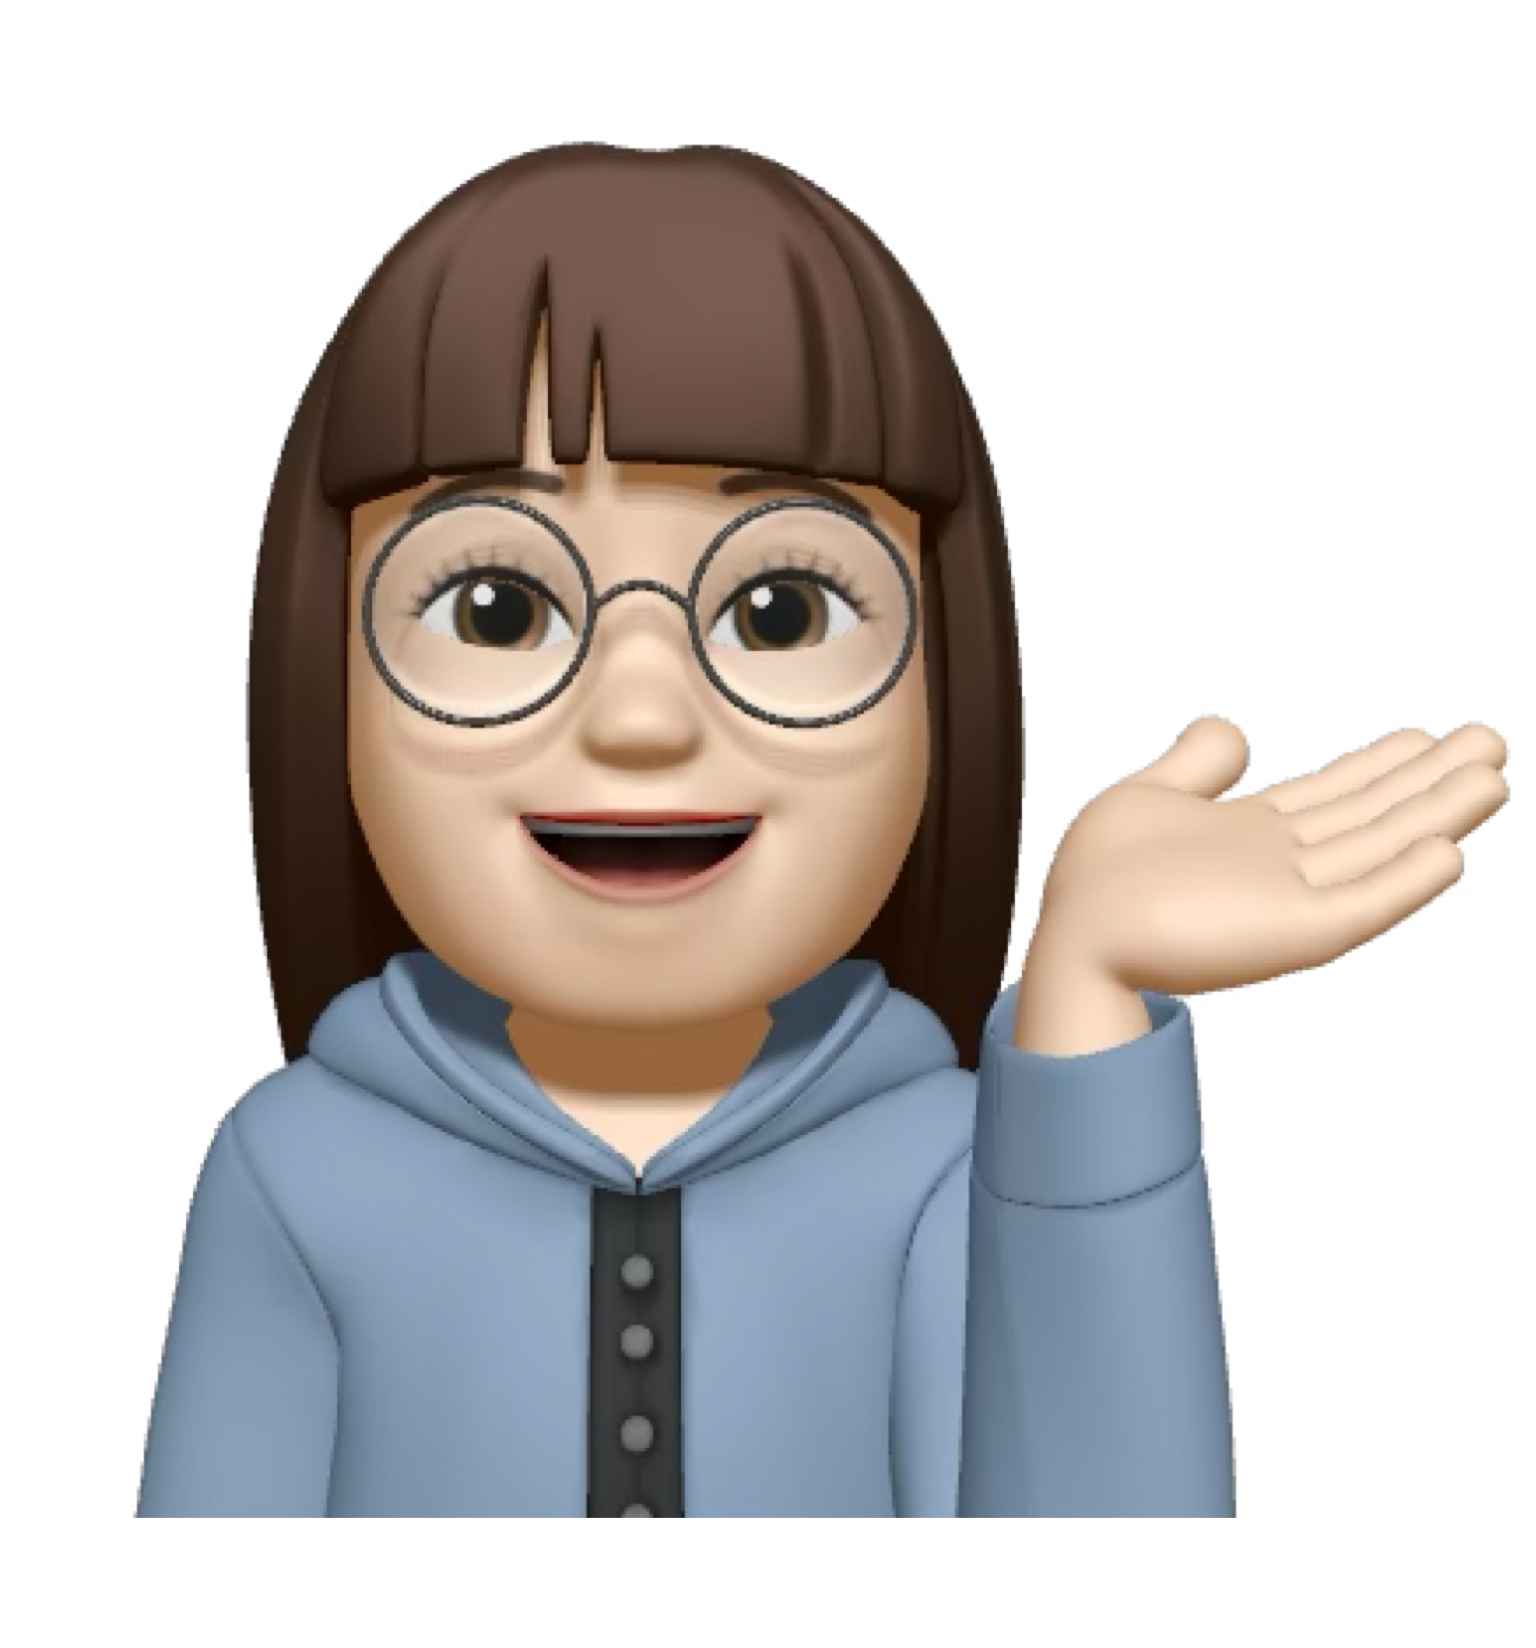
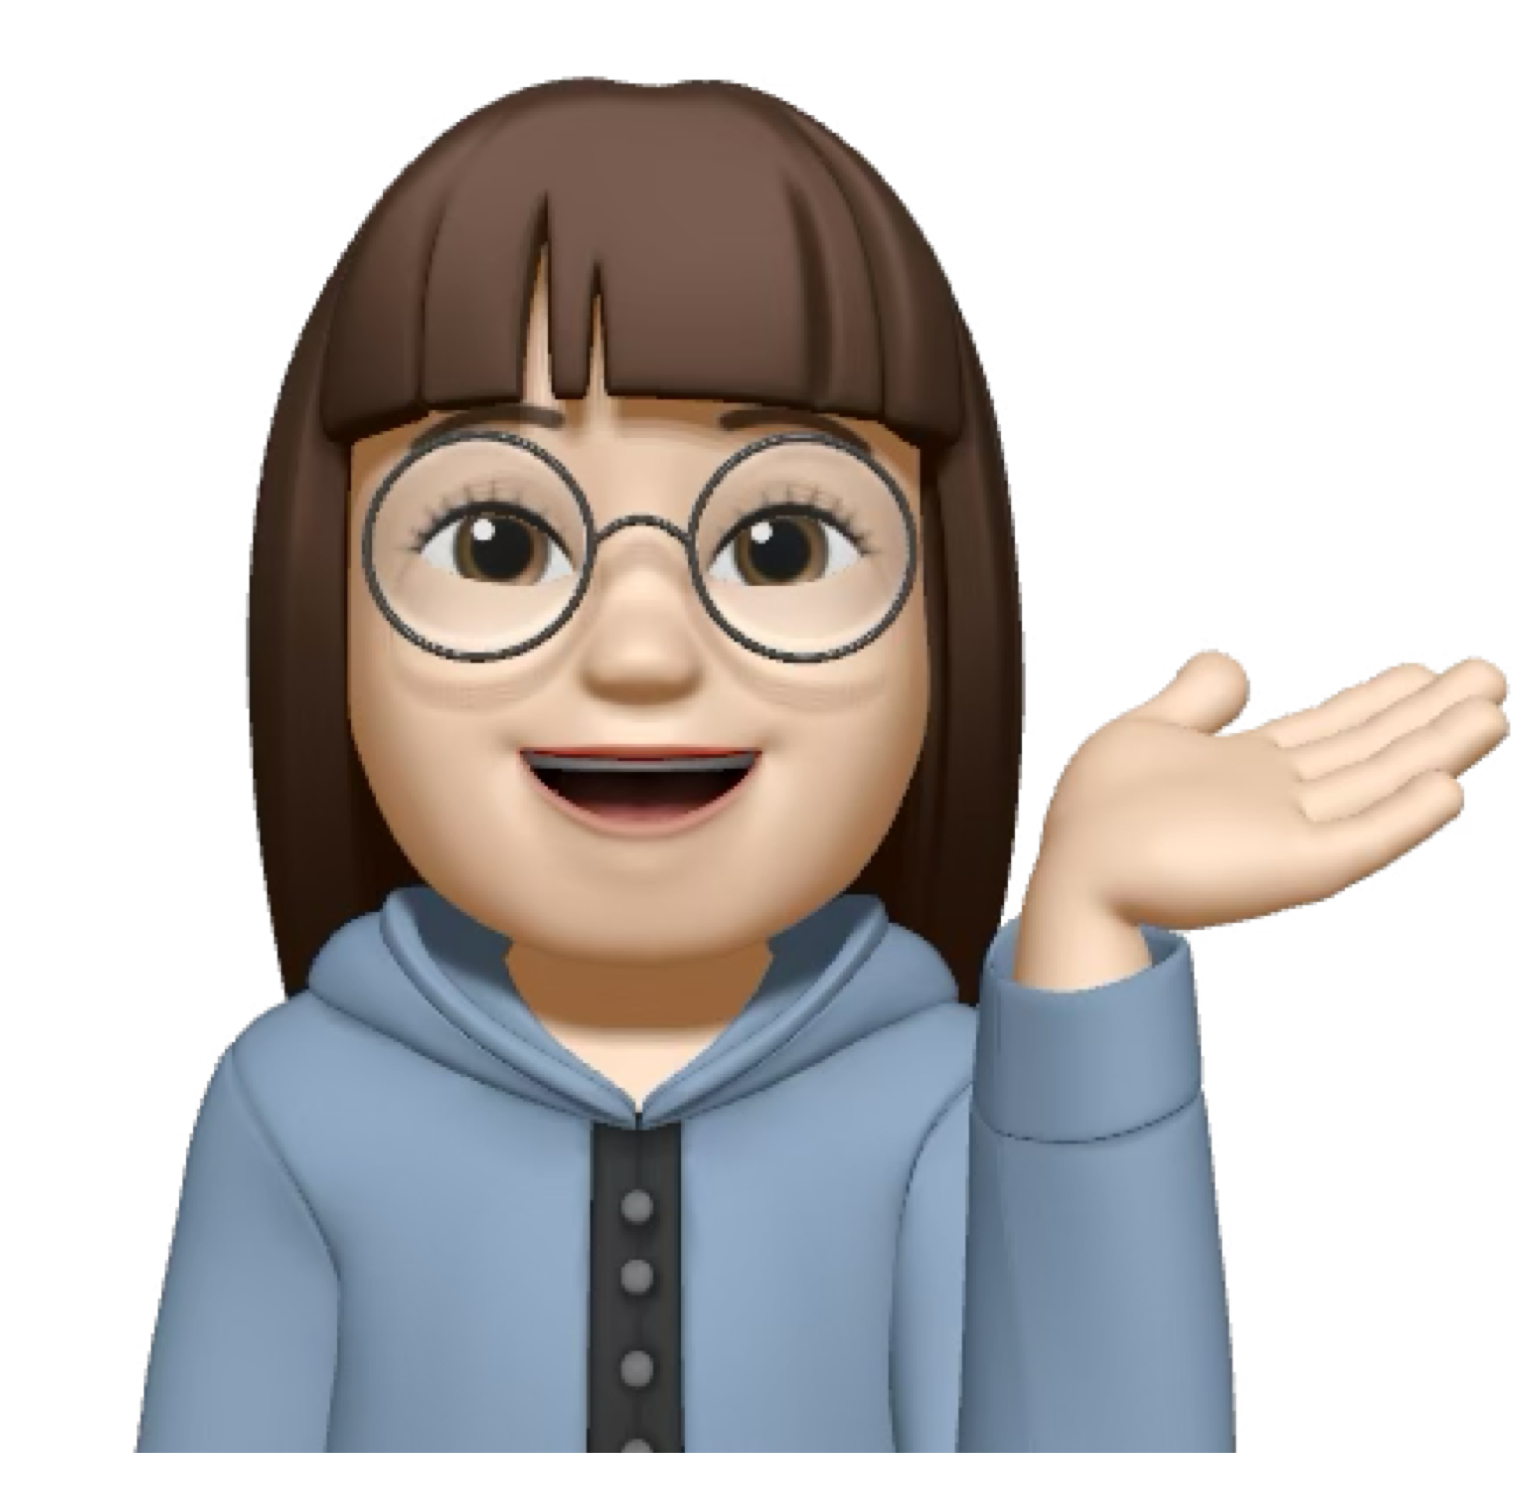
주요 프로젝트 slider 구현

diff --git a/portfolio/src/app/page.tsx b/portfolio/src/app/page.tsx
@@ -1,29 +1,20 @@
 import About from './_components/profile/About';
 import Archiving from './_components/profile/Archiving';
+import Description from './_components/profile/Description';
+import Keyword from './_components/profile/Keyword';
+import ProjectSlide from './_components/profile/ProjectSlide';
+import Title from './_components/profile/Title';
 
 export default function Home() {
   return (
     <main className="min-h-screen flex flex-col justify-center items-center">
-      <div className="mt-32 md:mt-24  flex gap-3">
-        <p className="px-3 py-1 border border-primary bg-primary rounded-2xl text-sm text-white">꾸준한</p>
-        <p className="px-3 py-1 border border-primary rounded-2xl text-sm text-primary">계속 성장하는</p>
-        <p className="px-3 py-1 border border-primary rounded-2xl text-sm text-primary">작은 디테일까지</p>
-        <p className="px-3 py-1 border border-primary bg-primary rounded-2xl text-sm text-white">문제 해결자</p>
-        <p className="px-3 py-1 border border-primary rounded-2xl text-sm text-primary">사용자 경험</p>
-      </div>
-      <h2 className="mt-5 text-3xl md:text-4xl font-medium text-center">
-        안녕하세요. 프론트엔드 개발자 <strong className="text-primary font-black">장현지</strong>입니다.
-      </h2>
-      <p className="mt-2 p-4 md:px-10 text-center text-sm">
-        <strong>누군가의 일상이 더 편리해지는 순간을 설계</strong>하는 프론트엔드 개발자, <strong>장현지</strong>입니다.
-        <br />
-        프론트엔드의 매력은 사용자와 만나는 접점을 설계하는 데 있다고 믿으며, 더욱 편리하고 직관적인 UI/UX를 구현하기
-        위해 끊임없이 고민합니다.
-      </p>
-      <p className="text-sm text-gray-300">Updated. 2024.10.12</p>
-
+      <Keyword />
+      <Title />
+      <Description />
       <About />
       <Archiving />
+      <h3 className="text-3xl text-primary font-black my-8">구현 프로젝트</h3>
+      <ProjectSlide />
     </main>
   );
 }

diff --git a/portfolio/src/app/_components/profile/Keyword.tsx b/portfolio/src/app/_components/profile/Keyword.tsx
@@ -1,0 +1,40 @@
+'use client';
+
+import { motion } from 'framer-motion';
+
+const keywords = ['꾸준한', '계속 성장하는', '작은 디테일까지', '문제 해결자', '사용자 경험'];
+
+const keywordVariants = [
+  { y: [-30, 0, -15, 0, -5, 0], duration: 0.8 },
+  { y: [-25, 0, -10, 0, -3, 0], duration: 0.6 },
+  { y: [-20, 0, -8, 0, -4, 0], duration: 0.7 },
+  { y: [-35, 0, -20, 0, -6, 0], duration: 0.9 },
+  { y: [-28, 0, -12, 0, -4, 0], duration: 0.75 },
+];
+
+export default function Keyword() {
+  return (
+    <div className="mt-32 md:mt-24 flex gap-3">
+      {keywords.map((text, index) => (
+        <motion.p
+          key={index}
+          className={`px-3 py-1 border border-primary rounded-2xl text-sm ${
+            index % 2 === 0 ? 'bg-primary text-white' : 'text-primary'
+          }`}
+          initial={{ y: keywordVariants[index].y[0], opacity: 0 }}
+          animate={{
+            y: keywordVariants[index].y,
+            opacity: 1,
+          }}
+          transition={{
+            duration: keywordVariants[index].duration,
+            ease: 'easeInOut',
+            delay: 1,
+          }}
+        >
+          {text}
+        </motion.p>
+      ))}
+    </div>
+  );
+}

diff --git a/portfolio/src/app/_components/profile/ProjectSlide.tsx b/portfolio/src/app/_components/profile/ProjectSlide.tsx
@@ -1,0 +1,29 @@
+'use client';
+
+import Image from 'next/image';
+import Link from 'next/link';
+import { PROJECT_IMG } from '@/app/data/constant';
+import projects from '@/app/data/project.json';
+
+export default function ProjectSlide() {
+  return (
+    <article className="w-full flex justify-center items-center mb-24">
+      <div className="flex w-fit overflow-hidden group">
+        <div className="flex pr-6 gap-6 animate-infiniteSlide group-hover">
+          {[...projects.projects, ...projects.projects].map((p, index) => (
+            <Link
+              href={`/projects/${p.projectId}`}
+              className="relative w-[400px] h-[180px] flex-shrink-0 group"
+              key={index}
+            >
+              <Image src={PROJECT_IMG[p.name as keyof typeof PROJECT_IMG]} alt={p.name} fill className="object-cover" />
+              <div className="absolute inset-0 bg-black bg-opacity-50 opacity-0 hover:opacity-100 transition-opacity duration-300 flex items-center justify-center">
+                <span className="text-white text-xl font-semibold">{p.name}</span>
+              </div>
+            </Link>
+          ))}
+        </div>
+      </div>
+    </article>
+  );
+}

diff --git a/portfolio/tailwind.config.ts b/portfolio/tailwind.config.ts
@@ -14,6 +14,27 @@ export default {
         darkgray: '#3D3B40',
         primary: '#5CB8E4',
       },
+      keyframes: {
+        infiniteSlideOriginal: {
+          '0%': { transform: 'translateX(0)' },
+          '50%': { transform: 'translateX(-100%)' },
+          '50.1%': { transform: 'translateX(100%)' },
+          '100%': { transform: 'translateX(0)' },
+        },
+        infiniteSlideCopy: {
+          '0%': { transform: 'translateX(0)' },
+          '100%': { transform: 'translateX(-200%)' },
+        },
+        infiniteSlide: {
+          '0%': { transform: 'translateX(0)' },
+          '100%': { transform: 'translateX(-50%)' },
+        },
+      },
+      animation: {
+        infiniteSlideOriginal: 'infiniteSlideOriginal 20s linear infinite',
+        infiniteSlideCopy: 'infiniteSlideCopy 20s linear infinite',
+        infiniteSlide: 'infiniteSlide 20s linear infinite',
+      },
     },
   },
   plugins: [],

diff --git a/portfolio/src/app/_components/profile/Description.tsx b/portfolio/src/app/_components/profile/Description.tsx
@@ -1,0 +1,22 @@
+'use client';
+
+import { motion } from 'framer-motion';
+
+export default function Description() {
+  return (
+    <motion.div
+      initial={{ opacity: 0 }}
+      animate={{ opacity: 1 }}
+      transition={{ duration: 0.8, ease: 'easeInOut', delay: 1 }}
+      className="flex flex-col items-center"
+    >
+      <p className="mt-2 p-4 md:px-10 text-center text-sm">
+        <strong>누군가의 일상이 더 편리해지는 순간을 설계</strong>하는 프론트엔드 개발자, <strong>장현지</strong>입니다.
+        <br />
+        프론트엔드의 매력은 사용자와 만나는 접점을 설계하는 데 있다고 믿으며, 더욱 편리하고 직관적인 UI/UX를 구현하기
+        위해 끊임없이 고민합니다.
+      </p>
+      <p className="text-sm text-gray-300">Updated. 2024.10.12</p>
+    </motion.div>
+  );
+}

diff --git a/portfolio/src/app/(routes)/projects/page.tsx b/portfolio/src/app/(routes)/projects/page.tsx
@@ -4,7 +4,7 @@ export default function Projects() {
   return (
     <main className="min-h-screen flex flex-col justify-center items-center">
       <h2 className="mt-24 text-2xl md:text-4xl text-center font-medium">
-        지금까지 진행한 모든 <strong className="font-bold text-primary">프로젝트</strong>입니다.
+        지금까지 진행한 모든 <strong className="font-black text-primary">프로젝트</strong>입니다.
       </h2>
       <p className="mt-2 text-center text-xs md:text-sm">
         프로젝트를 <strong>클릭</strong>하시면, 프로젝트에 대한 자세한 내용을 확인하실 수 있습니다.

diff --git a/portfolio/src/app/_components/profile/About.tsx b/portfolio/src/app/_components/profile/About.tsx
@@ -22,7 +22,10 @@ export default function About() {
       viewport={{ once: true, amount: 0.2 }}
     >
       <div className="flex flex-col justify-center">
-        <Image className="object-cover" src={character} alt="character" width={370} height={330} />
+        <div className="relative w-[400px] h-[400px]">
+          <Image className="object-cover" src={character} alt="character" fill />
+        </div>
+
         <div className="flex justify-between">
           <motion.a
             className="min-w-[180px] text-sm px-5 py-2 rounded bg-primary text-white flex justify-between items-center hover:underline"

diff --git a/portfolio/src/app/_components/profile/Title.tsx b/portfolio/src/app/_components/profile/Title.tsx
@@ -1,0 +1,16 @@
+'use client';
+
+import { motion } from 'framer-motion';
+
+export default function Title() {
+  return (
+    <motion.h2
+      className="mt-5 text-3xl md:text-4xl font-medium text-center"
+      initial={{ letterSpacing: '-0.5em', opacity: 0 }}
+      animate={{ letterSpacing: '0em', opacity: 1 }}
+      transition={{ duration: 0.7, ease: [0.215, 0.61, 0.355, 1.0] }}
+    >
+      안녕하세요. 프론트엔드 개발자 <strong className="text-primary font-black">장현지</strong>입니다.
+    </motion.h2>
+  );
+}

diff --git a/portfolio/src/app/_components/skill/Backend.tsx b/portfolio/src/app/_components/skill/Backend.tsx
@@ -19,7 +19,7 @@ export default function Backend({ tech }: BackProps) {
   };
 
   return (
-    <article className="min-h-[194px] p-5 rounded-lg border border-darkgray">
+    <article className="min-h-[194px] p-5 rounded-lg border shadow-xs">
       <h3 className="text-2xl font-bold">Backend</h3>
 
       <div className="mt-5 flex gap-5 grid grid-cols-3">

diff --git a/portfolio/src/app/_components/skill/Devops.tsx b/portfolio/src/app/_components/skill/Devops.tsx
@@ -19,7 +19,7 @@ export default function Devops({ tech }: DevopsProps) {
   };
 
   return (
-    <article className="p-5 rounded-lg border border-darkgray">
+    <article className="p-5 rounded-lg border shadow-xs">
       <h3 className="text-2xl font-bold">DevOps</h3>
 
       <div className="mt-5 flex gap-5 grid grid-cols-3">

diff --git a/portfolio/src/app/_components/skill/Language.tsx b/portfolio/src/app/_components/skill/Language.tsx
@@ -21,7 +21,7 @@ export default function Language({ tech }: LanguageProps) {
   };
 
   return (
-    <article className="p-5 rounded-lg border border-darkgray">
+    <article className="p-5 rounded-lg border shadow-xs">
       <h3 className="text-2xl font-bold">Language</h3>
 
       <div className="mt-5 flex gap-5">

diff --git a/portfolio/src/app/_components/skill/Frontend.tsx b/portfolio/src/app/_components/skill/Frontend.tsx
@@ -21,7 +21,7 @@ export default function Frontend({ tech }: FrontProps) {
   };
 
   return (
-    <article className="p-5 rounded-lg border border-darkgray">
+    <article className="p-5 rounded-lg border shadow-xs">
       <h3 className="text-2xl font-bold">Frontend</h3>
 
       <div className="mt-5 flex gap-5">
